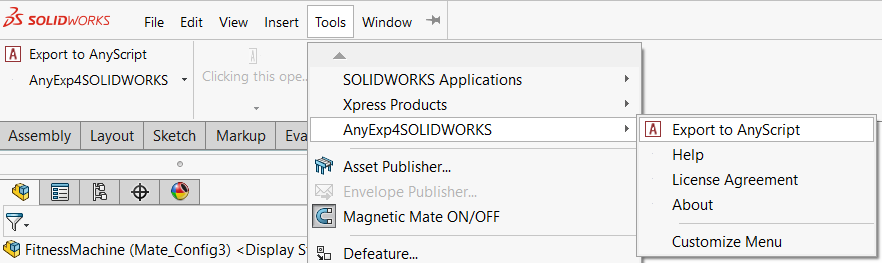
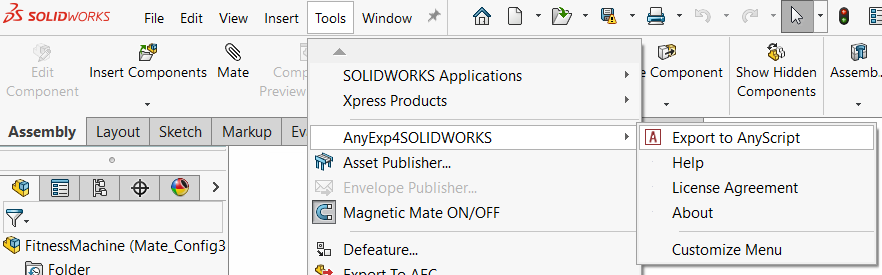
Merge pull request #83 from AnyBody/AnyExp4SOLIDWORKSexplanation
Explanation for AnyExp4SOLIDWORKS download

Pull request: Explanation for AnyExp4SOLIDWORKS download
Made the explanation for how to download and use the AnyBody Exporter for SOLIDWORKS (AnyExp4SOLIDWORKS) add-in more clear and explicit.

diff --git a/AnyExp4SOLIDWORKS/lesson1.md b/AnyExp4SOLIDWORKS/lesson1.md
@@ -28,23 +28,27 @@ should be fixed to the global origin. And the other parts should be
 connected to this base and each other by the mates. The total number of
 DOF (degrees-of-freedom) of this model should be one.
 
+## Exporting the Model Using AnyExp4SOLIDWORKS 
+
 Let us try to translate this model into a corresponding AnyScript model. Before
 exporting the model, **make sure the SOLIDWORKS assembly is set to configuration
-'Mate_Config1'** by double-clicking on it in the Configuration Manager window. If you
-have registered the AnyBody Exporter™ for SOLIDWORKS® (AnyExp4SOLIDWORKS™)
-add-in successfully, then you will see the menu of the AnyExp4SOLIDWORKS add-in
-on the SOLIDWORKS menu like this:
+'Mate_Config1'** by double-clicking on it in the Configuration Manager window. 
 
-```{image} _static/lesson1/lesson1_image2.png
-:alt: AnyExp4SOLIDWORKS menu
-:class: bg-primary
-:align: center
-```
+The AnyBody Exporter™ for SOLIDWORKS® (AnyExp4SOLIDWORKS™) is an add-in for
+SOLIDWORKS that can translate a SOLIDWORKS CAD assembly into its corresponding
+AnyScript model, which can then be used in the AnyBody Modeling System.
+AnyExp4SOLIDWORKS is installed through the installer for the AnyBody Modeling
+System. Please, find details about the installation procedure in the "Install Guide", and
+for more information about the the AnyExp4SOLIDWORKS add-in itself, please see
+the manual "AnyBody Exporter for SolidWorks". On the 
+[AnyBody Technology webpage](https://www.anybodytech.com/resources/customer-downloads)
+you can download the latest version of the AnyBody Modeling System.
 
-:::{seealso}
-For more informaion about the the AnyExp4SOLIDWORKS add-in, including installation instructions, 
-please refer the manual "AnyBody Exporter for SolidWorks". This manual can be found by opening an
-AnyBody window, clikcing on 'Help' -> 'Documentation Home' in the top menu. 
+:::{tip}
+
+The "Install Guide" and the manual "AnyBody Exporter for SolidWorks" can be
+found by opening an AnyBody window, clikcing on 'Help' -> 'Documentation Home'
+in the top menu. 
 
 ```{image} _static/lesson1/lesson1_image7.PNG
 :alt: Documentation home
@@ -53,11 +57,25 @@ AnyBody window, clikcing on 'Help' -> 'Documentation Home' in the top menu.
 :width: 50%
 ```
 
-This will direct you to the AnyBody manuals page where all the manuals can be found. 
-From there, click on the 'AnyBody Exporter for SolidWorks' to access the specific manual.  
+This will direct you to the AnyBody manuals page where all the manuals and the
+install guide can be found. 
 ::: 
 
-Then start the translation process by selecting the ‘Export to AnyScript’ menu
+Using AnyExp4SOLIDWORKS™ requires a special license, but if you have registered
+the add-in successfully, then you will see the AnyExp4SOLIDWORKS
+add-in on the SOLIDWORKS menu under Tools like this:
+
+```{image} _static/lesson1/lesson1_image2.png
+:alt: AnyExp4SOLIDWORKS menu
+:class: bg-primary
+:align: center
+```
+
+If the add-in does not appear, then go to 'Tools' -> 'Add-Ins' and check the box
+for AnyExp4SOLIDWORKS to activate it. Afterwards, you may need to restart
+SOLIDWORKS to see the add-in menu.
+
+Now, start the translation process by selecting the ‘Export to AnyScript’ menu
 item. Doing this will display the following dialog.
 
 ```{image} _static/lesson1/lesson1_image3.png